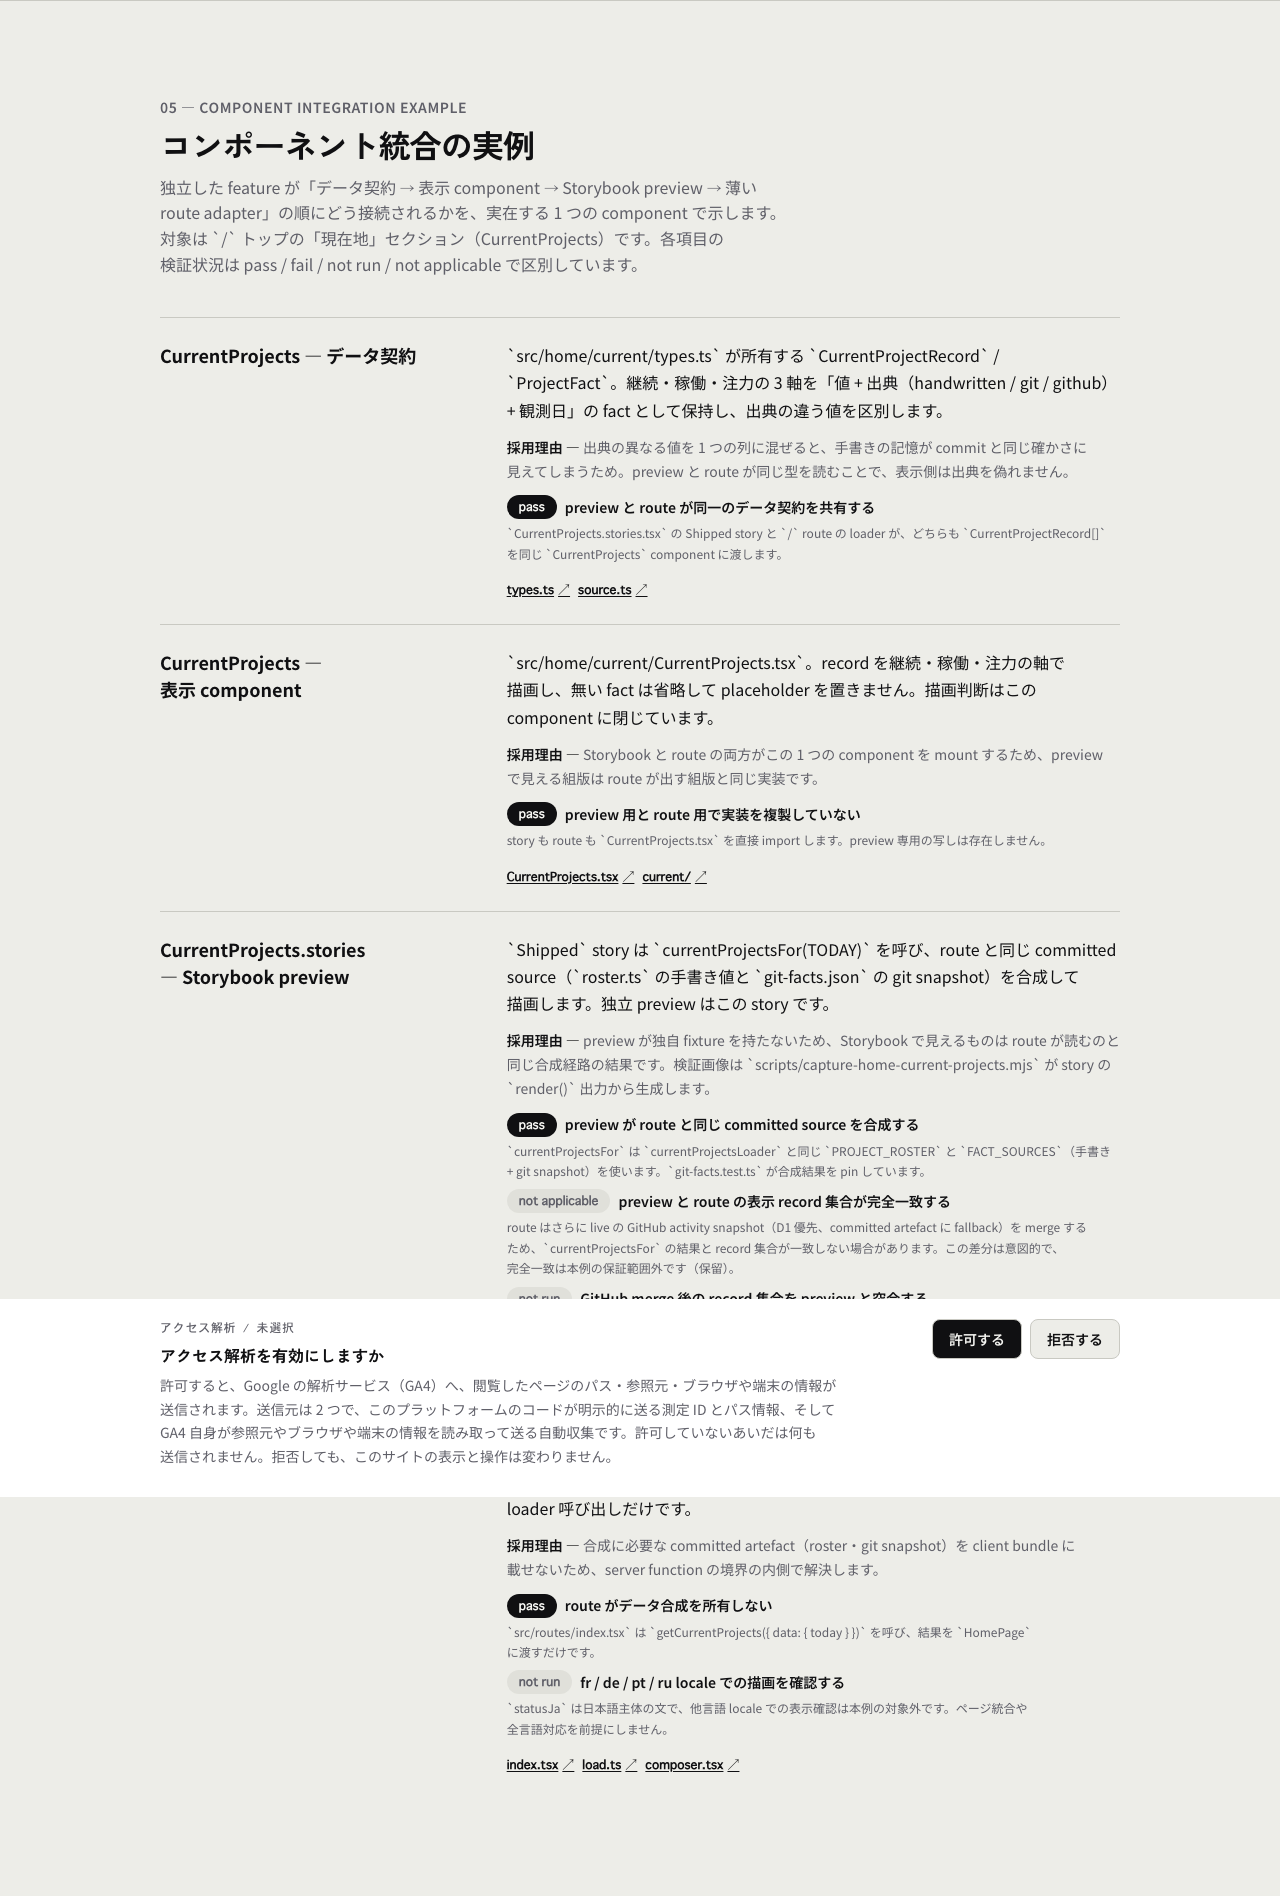
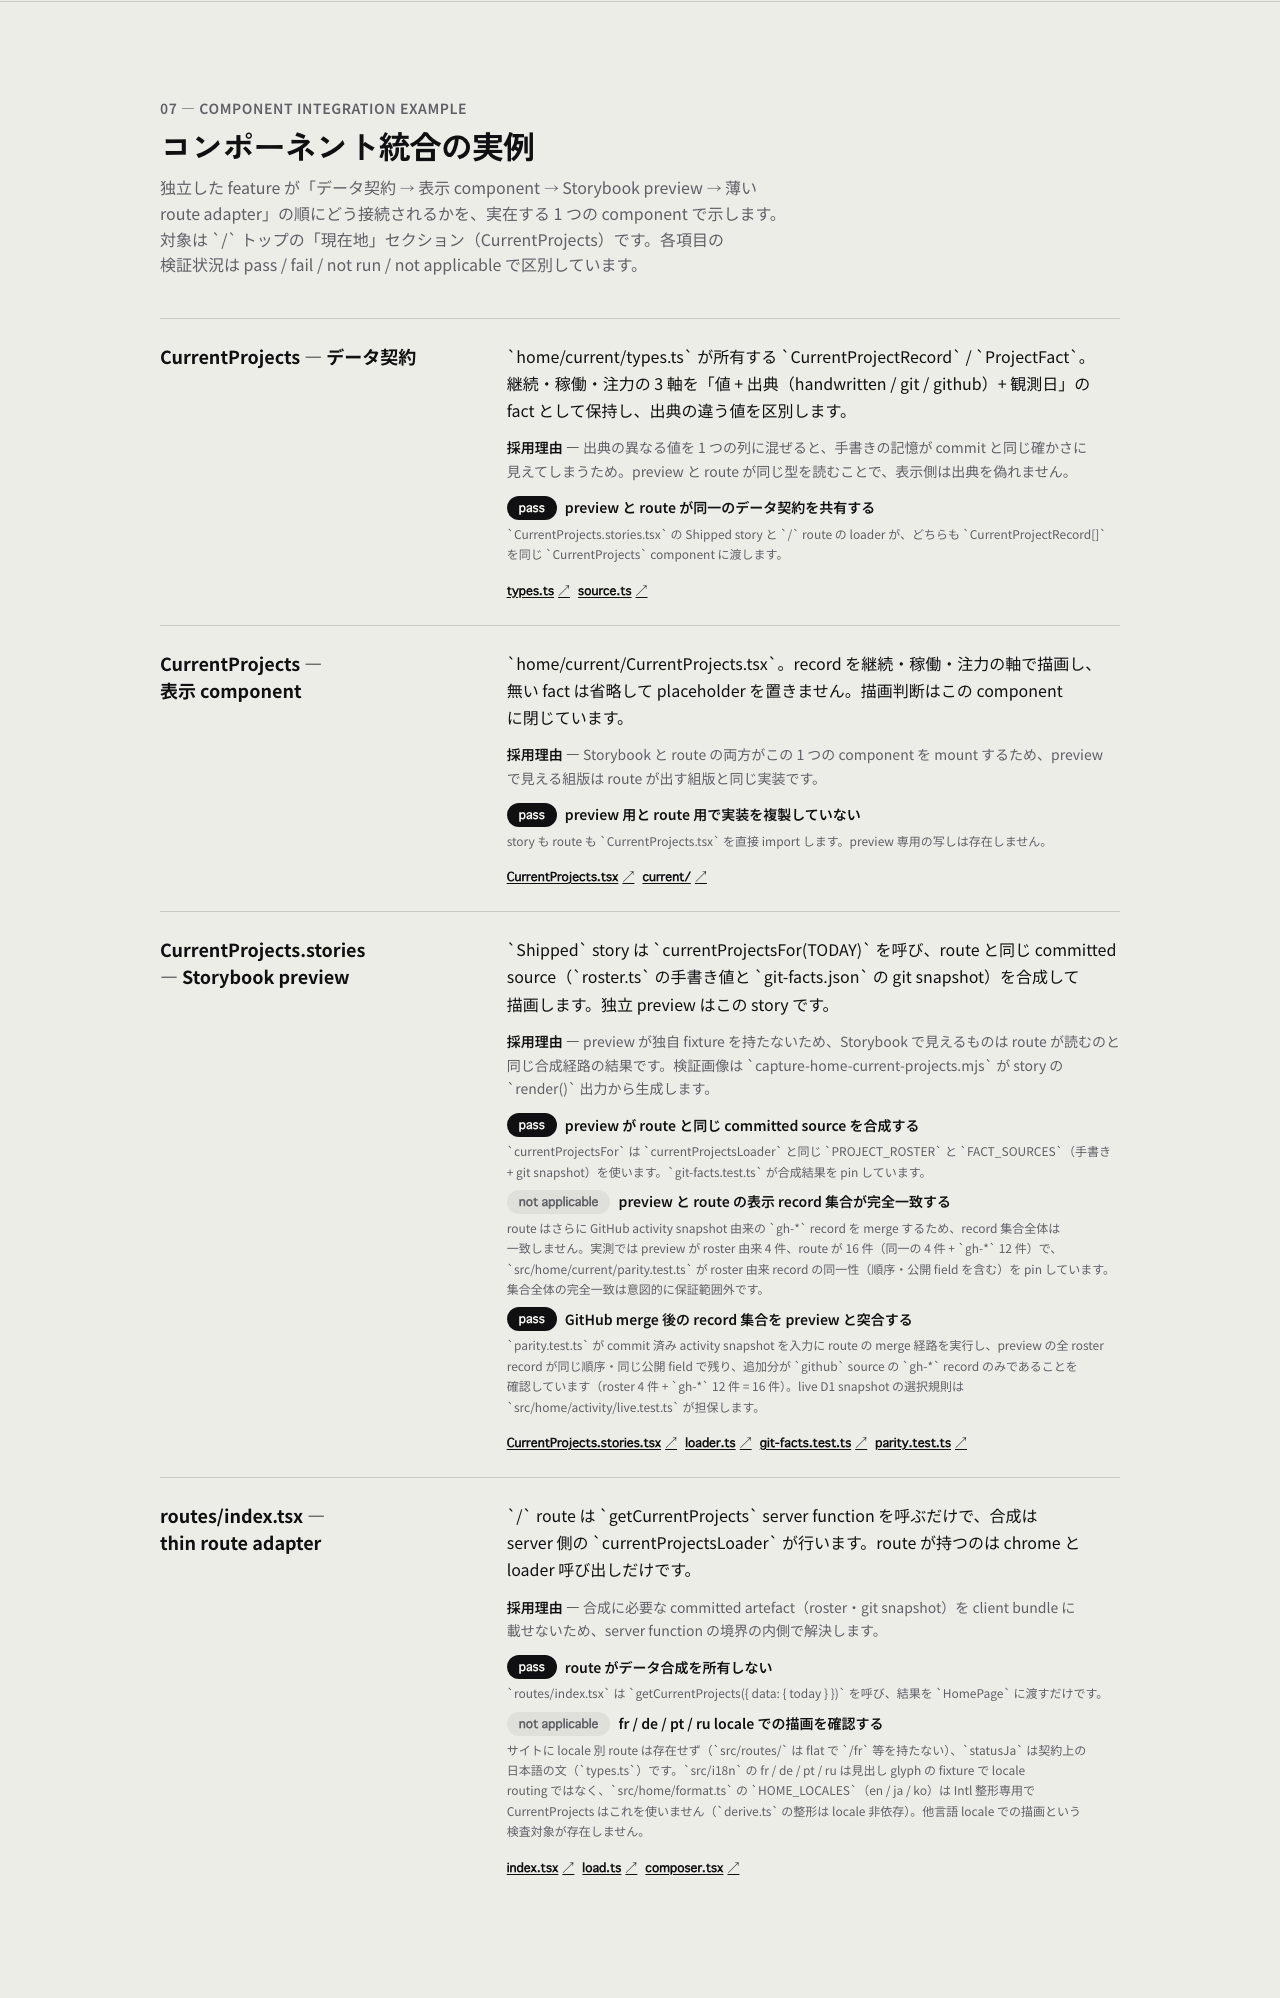
test(stack): resolve component-integration check verdicts with parity evidence (Issue #510)
Adds src/home/current/parity.test.ts, which pins the honest
preview/route relationship for the /stack component-integration
example: every roster-derived record the route publishes is identical
to the Shipped story's record (same order, same public fields after
the server function's evidence-stripping projection), and the only
records the route adds are github-sourced gh-* ids. Measured on the
committed artefact: 4 roster records + 12 gh-* records = 16.

Check verdicts updated to match verified reality:
- github-merge-parity: not-run -> pass (parity.test.ts)
- other-locale-render: not-run -> not-applicable (no per-locale
  routes exist; statusJa is authored Japanese by contract;
  HOME_LOCALES governs Intl formatting only and CurrentProjects
  does not use it)
- preview-route-identical-output: stays not-applicable, note now
  cites the measured 4 vs 16 record-set difference

Also updates resolve.test.ts, e2e/stack.spec.ts, the Issue #510
verification record, and recaptures the section screenshot.

Changed region(s): [[0.125, 0.0311, 0.875, 0.9647], [0.125, 0.4668, 0.2812, 0.529], [0.125, 0.3112, 0.25, 0.3734]]

diff --git a/src/home/current/parity.test.ts b/src/home/current/parity.test.ts
@@ -1,0 +1,97 @@
+import { describe, expect, it } from 'vitest';
+import githubActivityJson from '../activity/github-activity.json' with { type: 'json' };
+import { activityProjectRecords, readGitHubActivitySnapshot } from '../activity/snapshot';
+import { currentProjectsFor, currentProjectsLoader } from './loader';
+import type { CurrentProjectRecord, ProjectFact } from './types';
+
+/**
+ * Preview / route record-set parity (Issue #510).
+ *
+ * The `/stack` component-integration example claims the `Shipped`
+ * story and the `/` route share one composition path. They do — up to
+ * one deliberate difference: the route additionally merges the
+ * GitHub-observed projects (`gh-*` ids) projected from the activity
+ * snapshot, while `currentProjectsFor` composes roster + handwritten +
+ * git only. This test pins the honest relationship instead of
+ * asserting an equality that cannot hold:
+ *
+ *   - every roster-derived record the route publishes is identical
+ *     (after the server function's public projection, which strips
+ *     `ProjectFact#evidence`) to the record the story renders, in the
+ *     same relative order;
+ *   - every record the route adds on top is a `gh-*` id whose measured
+ *     facts are all stamped `github`;
+ *   - no roster id is dropped or duplicated by the merge.
+ *
+ * The live-D1 variant of the snapshot is covered by
+ * `src/home/activity/live.test.ts` (`selectActivitySnapshot` picks the
+ * fresher valid document); this test pins the committed-artefact path,
+ * which is also the floor every environment falls back to.
+ */
+const TODAY = new Date().toISOString().slice(0, 10);
+
+/** Mirror of `toPublicRecord` in `load.ts`: the boundary strips `evidence`. */
+function publicView(record: CurrentProjectRecord): CurrentProjectRecord {
+	const strip = <T>(fact: ProjectFact<T> | undefined): ProjectFact<T> | undefined =>
+		fact === undefined
+			? undefined
+			: { value: fact.value, source: fact.source, observedOn: fact.observedOn };
+	return {
+		...record,
+		startedOn: strip(record.startedOn),
+		updatedOn: strip(record.updatedOn),
+		weight:
+			record.weight === undefined
+				? undefined
+				: {
+						...record.weight,
+						activity: strip(record.weight.activity),
+						level: strip(record.weight.level),
+					},
+	};
+}
+
+function allFactSources(record: CurrentProjectRecord): string[] {
+	const sources: string[] = [];
+	const facts = [record.startedOn, record.updatedOn, record.weight?.level, record.weight?.activity];
+	for (const fact of facts) {
+		if (fact) sources.push(fact.source);
+	}
+	return sources;
+}
+
+describe('current-projects preview / route parity', () => {
+	it('publishes every roster record identically to the story composition', async () => {
+		const preview = currentProjectsFor(TODAY).map(publicView);
+		const snapshot = readGitHubActivitySnapshot(githubActivityJson);
+		const github = snapshot ? activityProjectRecords(snapshot) : [];
+		const route = (await currentProjectsLoader.loadCurrentProjects(TODAY, github)).map(publicView);
+
+		const previewIds = new Set(preview.map((record) => record.id));
+		const routeRoster = route.filter((record) => previewIds.has(record.id));
+
+		// Same records, same order, same public fields — the merge adds
+		// records, it never rewrites a roster-derived one.
+		expect(routeRoster).toEqual(preview);
+	});
+
+	it('adds only github-sourced gh-* records on top of the roster set', async () => {
+		const preview = currentProjectsFor(TODAY);
+		const previewIds = new Set(preview.map((record) => record.id));
+		const snapshot = readGitHubActivitySnapshot(githubActivityJson);
+		const github = snapshot ? activityProjectRecords(snapshot) : [];
+		const route = await currentProjectsLoader.loadCurrentProjects(TODAY, github);
+
+		const added = route.filter((record) => !previewIds.has(record.id));
+		expect(added.length).toBeGreaterThan(0);
+		for (const record of added) {
+			expect(record.id.startsWith('gh-')).toBe(true);
+			for (const source of allFactSources(record)) {
+				expect(source).toBe('github');
+			}
+		}
+		// No roster id is duplicated by the merge.
+		const routeIds = route.map((record) => record.id);
+		expect(new Set(routeIds).size).toBe(routeIds.length);
+	});
+});

diff --git a/src/routes/stack/stack.ts b/src/routes/stack/stack.ts
@@ -735,6 +735,7 @@ export const STACK_SECTIONS: readonly StackSection[] = [
 					),
 					evidence('loader.ts', 'src', 'home', 'current', 'loader.ts'),
 					evidence('git-facts.test.ts', 'src', 'home', 'current', 'git-facts.test.ts'),
+					evidence('parity.test.ts', 'src', 'home', 'current', 'parity.test.ts'),
 				],
 				checks: [
 					{
@@ -747,13 +748,13 @@ export const STACK_SECTIONS: readonly StackSection[] = [
 						id: 'preview-route-identical-output',
 						label: 'preview と route の表示 record 集合が完全一致する',
 						status: 'not-applicable',
-						note: 'route はさらに live の GitHub activity snapshot（D1 優先、committed artefact に fallback）を merge するため、`currentProjectsFor` の結果と record 集合が一致しない場合があります。この差分は意図的で、完全一致は本例の保証範囲外です（保留）。',
+						note: 'route はさらに GitHub activity snapshot 由来の `gh-*` record を merge するため、record 集合全体は一致しません。実測では preview が roster 由来 4 件、route が 16 件（同一の 4 件 + `gh-*` 12 件）で、`src/home/current/parity.test.ts` が roster 由来 record の同一性（順序・公開 field を含む）を pin しています。集合全体の完全一致は意図的に保証範囲外です。',
 					},
 					{
 						id: 'github-merge-parity',
 						label: 'GitHub merge 後の record 集合を preview と突合する',
-						status: 'not-run',
-						note: '自動検証は roster + git の合成までを対象とし、live snapshot 由来の record を含む完全な route 出力との突合は未実施です。',
+						status: 'pass',
+						note: '`parity.test.ts` が commit 済み activity snapshot を入力に route の merge 経路を実行し、preview の全 roster record が同じ順序・同じ公開 field で残り、追加分が `github` source の `gh-*` record のみであることを確認しています（roster 4 件 + `gh-*` 12 件 = 16 件）。live D1 snapshot の選択規則は `src/home/activity/live.test.ts` が担保します。',
 					},
 				],
 			},
@@ -780,8 +781,8 @@ export const STACK_SECTIONS: readonly StackSection[] = [
 					{
 						id: 'other-locale-render',
 						label: 'fr / de / pt / ru locale での描画を確認する',
-						status: 'not-run',
-						note: '`statusJa` は日本語主体の文で、他言語 locale での表示確認は本例の対象外です。ページ統合や全言語対応を前提にしません。',
+						status: 'not-applicable',
+						note: 'サイトに locale 別 route は存在せず（`src/routes/` は flat で `/fr` 等を持たない）、`statusJa` は契約上の日本語の文（`types.ts`）です。`src/i18n` の fr / de / pt / ru は見出し glyph の fixture で locale routing ではなく、`src/home/format.ts` の `HOME_LOCALES`（en / ja / ko）は Intl 整形専用で CurrentProjects はこれを使いません（`derive.ts` の整形は locale 非依存）。他言語 locale での描画という検査対象が存在しません。',
 					},
 				],
 			},

diff --git a/e2e/stack.spec.ts b/e2e/stack.spec.ts
@@ -103,7 +103,7 @@ test.describe('stack — /stack reference', () => {
 		const preview = page.locator('[data-testid="stack-item-current-projects-preview"]');
 		await expect(preview).toContainText('CurrentProjects.stories');
 
-		// pass / not run / not applicable are rendered as distinct
+		// pass / not applicable verdicts are rendered as distinct
 		// literal tokens, each carrying its data-status attribute.
 		await expect(page.locator('[data-testid="stack-check-preview-same-sources"]')).toHaveAttribute(
 			'data-status',
@@ -112,13 +112,15 @@ test.describe('stack — /stack reference', () => {
 		await expect(
 			page.locator('[data-testid="stack-check-preview-route-identical-output"]'),
 		).toHaveAttribute('data-status', 'not-applicable');
+		// github-merge-parity is verified by src/home/current/parity.test.ts;
+		// other-locale-render is not-applicable (no per-locale routes exist).
 		await expect(page.locator('[data-testid="stack-check-github-merge-parity"]')).toHaveAttribute(
 			'data-status',
-			'not-run',
+			'pass',
 		);
 		await expect(page.locator('[data-testid="stack-check-other-locale-render"]')).toHaveAttribute(
 			'data-status',
-			'not-run',
+			'not-applicable',
 		);
 	});
 

diff --git a/src/routes/stack/resolve.test.ts b/src/routes/stack/resolve.test.ts
@@ -190,5 +190,12 @@ describe('resolveStackSections over the committed inventory', () => {
 		// declared not-applicable, never pass.
 		const identical = checks.find((check) => check.id === 'preview-route-identical-output');
 		expect(identical?.status).toBe('not-applicable');
+		// The GitHub-merge parity check is verified by
+		// src/home/current/parity.test.ts, and the locale check is
+		// not-applicable because the site has no per-locale routes.
+		const mergeParity = checks.find((check) => check.id === 'github-merge-parity');
+		expect(mergeParity?.status).toBe('pass');
+		const locale = checks.find((check) => check.id === 'other-locale-render');
+		expect(locale?.status).toBe('not-applicable');
 	});
 });

diff --git a/docs/verification/platform/component-integration-example.md b/docs/verification/platform/component-integration-example.md
@@ -38,17 +38,19 @@ Storybook → route adapter への薄い接続」を **1 つの実在 component*
 
 ページ上の各 check は `pass` / `fail` / `not run` / `not applicable`
 の 4 値で描画される（`e2e/stack.spec.ts` が `data-status` 属性で
-区別を pin する）。
+区別を pin する。本節の check に `fail` / `not run` の実例は
+残っていない — Issue #510 後続の parity 検証で `not run` だった
+2 件が `pass` / `not applicable` に確定したため）。
 
 | check | 判定 | 根拠 |
 | --- | --- | --- |
 | preview と route が同一のデータ契約を共有する | **pass** | `CurrentProjects.stories.tsx` の `Shipped` と `/` route の loader がどちらも `CurrentProjectRecord[]` を同じ `CurrentProjects` component に渡す（`src/home/current/types.ts`）。 |
 | preview 用と route 用で実装を複製していない | **pass** | story も route（`home/composer.tsx` 経由）も `CurrentProjects.tsx` を直接 import する。preview 専用の写しは存在しない。 |
 | preview が route と同じ committed source を合成する | **pass** | `currentProjectsFor`（`loader.ts`）は `currentProjectsLoader` と同じ `PROJECT_ROSTER` と `FACT_SOURCES`（手書き + `git-facts.json`）を使う。`git-facts.test.ts` が合成結果を pin。 |
-| preview と route の表示 record 集合が完全一致する | **not applicable** | route はさらに live の GitHub activity snapshot（D1 優先、committed artefact fallback）を merge するため、`currentProjectsFor` の結果と record 集合が一致しない場合がある。この差分は意図的で、完全一致は本例の保証範囲外（**保留**）。 |
-| GitHub merge 後の record 集合を preview と突合する | **not run** | 自動検証は roster + git の合成までが対象。live snapshot 由来 record を含む完全な route 出力との突合は未実施。 |
+| preview と route の表示 record 集合が完全一致する | **not applicable** | route はさらに GitHub activity snapshot 由来の `gh-*` record を merge するため、record 集合全体は一致しない。実測では preview が roster 由来 4 件、route が 16 件（同一の 4 件 + `gh-*` 12 件）。この差分は意図的で、集合全体の完全一致は本例の保証範囲外。 |
+| GitHub merge 後の record 集合を preview と突合する | **pass** | `src/home/current/parity.test.ts` が commit 済み activity snapshot を入力に route の merge 経路（`currentProjectsLoader.loadCurrentProjects` + `selectPublishedProjects`）を実行し、preview の全 roster record が同じ順序・同じ公開 field（`load.ts` の `toPublicRecord` が落とす `evidence` を除く）で残り、追加分が `github` source の `gh-*` record のみであることを確認した（roster 4 件 + `gh-*` 12 件 = 16 件）。live D1 snapshot の選択規則は `src/home/activity/live.test.ts` が担保する。 |
 | route がデータ合成を所有しない | **pass** | `routes/index.tsx` は `getCurrentProjects({ data: { today } })` を呼び結果を `HomePage` に渡すだけ。合成は server 側 `currentProjectsLoader` が行う。 |
-| fr / de / pt / ru locale での描画を確認する | **not run** | `statusJa` は日本語主体の文で、他言語 locale の表示確認は本例の対象外。ページ統合や全言語対応を前提にしない。 |
+| fr / de / pt / ru locale での描画を確認する | **not applicable** | サイトに locale 別 route は存在しない（`src/routes/` は flat で `/fr` 等を持たない）。`statusJa` は `types.ts` の契約上の日本語の文。`src/i18n` の fr / de / pt / ru は見出し glyph の fixture で locale routing ではなく、`src/home/format.ts` の `HOME_LOCALES`（en / ja / ko）は Intl 整形専用で CurrentProjects はこれを使わない（`derive.ts` の整形は locale 非依存）。他言語 locale での描画という検査対象が存在しない。 |
 
 `fail` の項目は今回の実例には存在しない（検証が主張と矛盾した項目が
 無いため）。語彙としては `StackCheckStatus` が 4 値を保持し、
@@ -95,10 +97,14 @@ node scripts/e2e-local-bootstrap.mjs --port=3000 &
 
 ## 対象外と将来の手作業
 
-- **対象外**: live D1 snapshot を含む route 出力と preview 出力の
-  完全一致の検証（`not run` のまま）。GitHub merge を preview 側の
+- **対象外**: live D1 snapshot を入力にした route 出力と preview 出力の
+  record 集合の完全一致。parity は commit 済み artefact 経路で
+  `parity.test.ts` が pin し、live / committed の選択規則は
+  `live.test.ts` が担保するが、実 D1 document を使った突合は
+  operator 環境依存のため対象外。GitHub merge を preview 側の
   story にも載せるかは owner 判断。
-- **対象外**: fr / de / pt / ru locale での描画確認（`not run`）。
+- **対象外**: fr / de / pt / ru locale での描画確認（locale 別
+  route が存在しないため `not applicable`）。
 - **対象外**: 新しい route・公開 surface の追加。`/stack` は
   `PUBLIC_NAV_ITEMS` / `SITEMAP_ENTRIES` に載らない reference
   surface のまま（#381 の契約を維持）。
